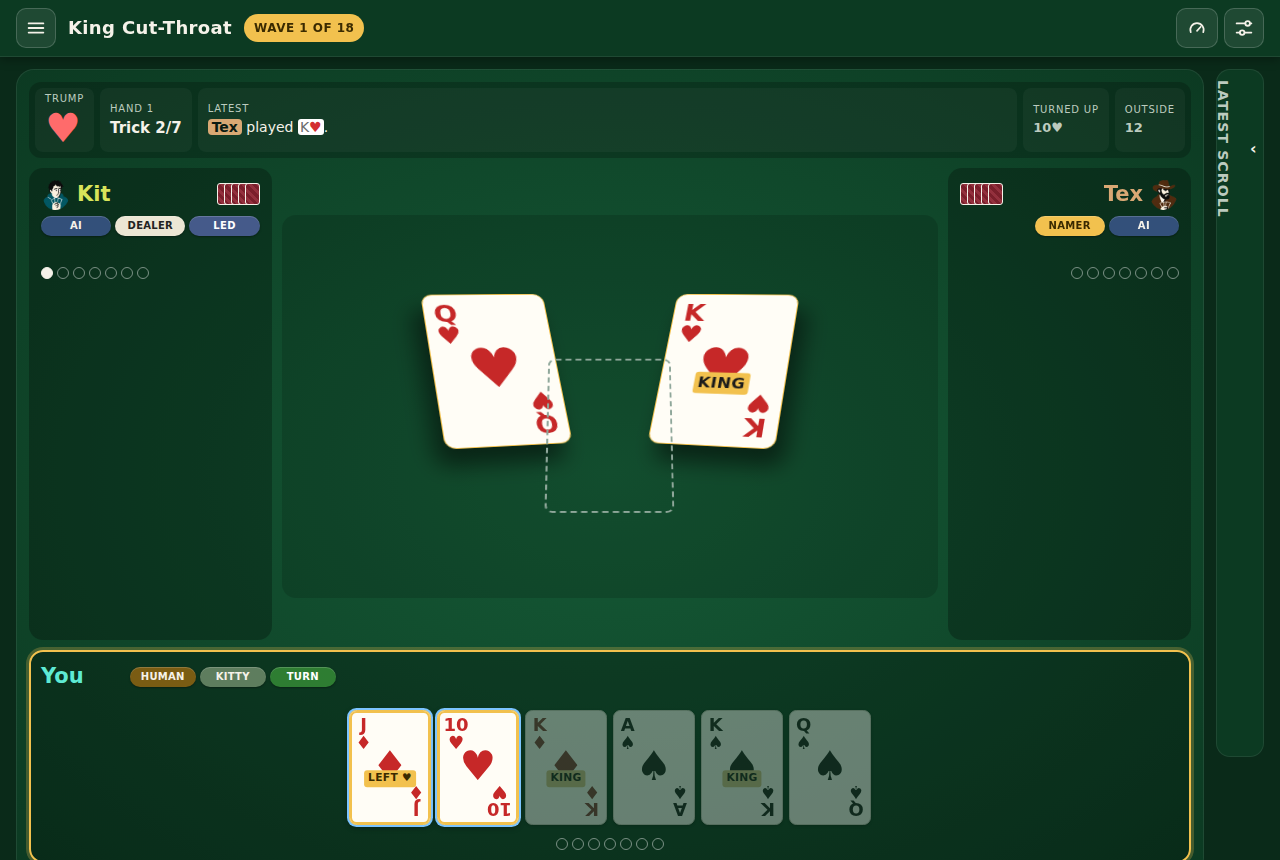
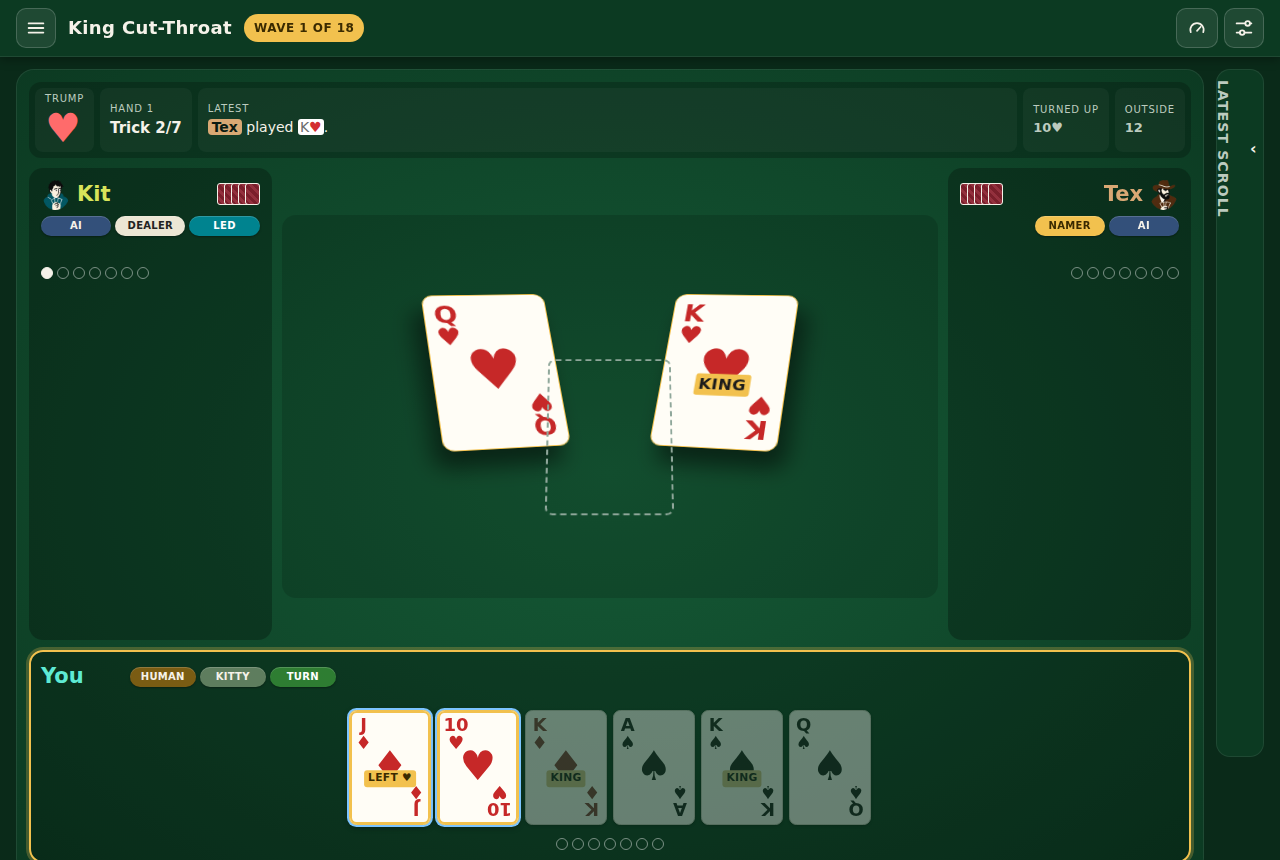
Restore the magenta Showdown table; make Led teal
The whole table turns magenta during a Showdown again, every seat
alike. The Led tag moves from blue to teal so it no longer reads like
the navy AI tag.

Claude-Session: https://claude.ai/code/session_01QkpazkapUFZWg4SWZB1dDA

diff --git a/mockups/advanced3.js b/mockups/advanced3.js
@@ -1,5 +1,5 @@
 /* Mockup layer, Advanced v3: v1 (advanced.js) with the v2 trick circles, scores back in the seats, and one uniform
-   style (one table color, one tag shape; each role keeps its color). Not app code.
+   style (one tag shape; each role keeps its color; the Showdown table is magenta throughout). Not app code.
    Inputs set by the shot scripts: __turn, __led (seat ids), __lastWinner (HTML), __collapsed (log collapsed). */
 const $ = (s, r = document) => r.querySelector(s), $$ = (s, r = document) => [...r.querySelectorAll(s)];
 const css = `
@@ -172,7 +172,7 @@ html.lefthand .center > .pile-act{right:auto;left:12px;flex-direction:row}
 .summary table.stats td:last-child{color:var(--ink)!important}
 .center{padding-top:10px!important}
 /* One uniform style: one table color, one tag style. */
-.table,.table.showdown{background:radial-gradient(ellipse at center,var(--felt) 0%,var(--felt-edge) 100%)!important}
+/* The Showdown keeps its magenta table, the whole table, every seat alike. */
 .table.showdown .not-sd{background:var(--panel)!important}
 /* Tags: each role keeps its own color (filled); the shape is uniform: one pill, one size, one weight. */
 .tagbox .tag{border-radius:999px;font-weight:800;letter-spacing:.03em;box-shadow:0 1px 2px rgba(0,0,0,.35),inset 0 1px 0 rgba(255,255,255,.18)}
@@ -195,7 +195,7 @@ const WON = { 0: [], 1: [], 2: [] }, SDWON = { 0: [], 1: [], 2: [] }, NAME = { Y
 for (const s of $$('#seat1,#seat2,#seat0')) {
   const head = $('.seat-head,.me-head', s), id = +s.id.slice(4);
   if (window.__turn === id) head.insertAdjacentHTML('beforeend', '<span class="tag turn" style="background:#2e7d32;color:#fff">Turn</span>');
-  if (window.__led === id) head.insertAdjacentHTML('beforeend', '<span class="tag led" style="background:#455a8a;color:#fff">Led</span>');
+  if (window.__led === id) head.insertAdjacentHTML('beforeend', '<span class="tag led" style="background:#00838f;color:#fff">Led</span>');
   const tags = $$('.tag', head), box = document.createElement('div');
   box.className = 'tagbox';
   for (const [classes, slot] of SLOTS) {
